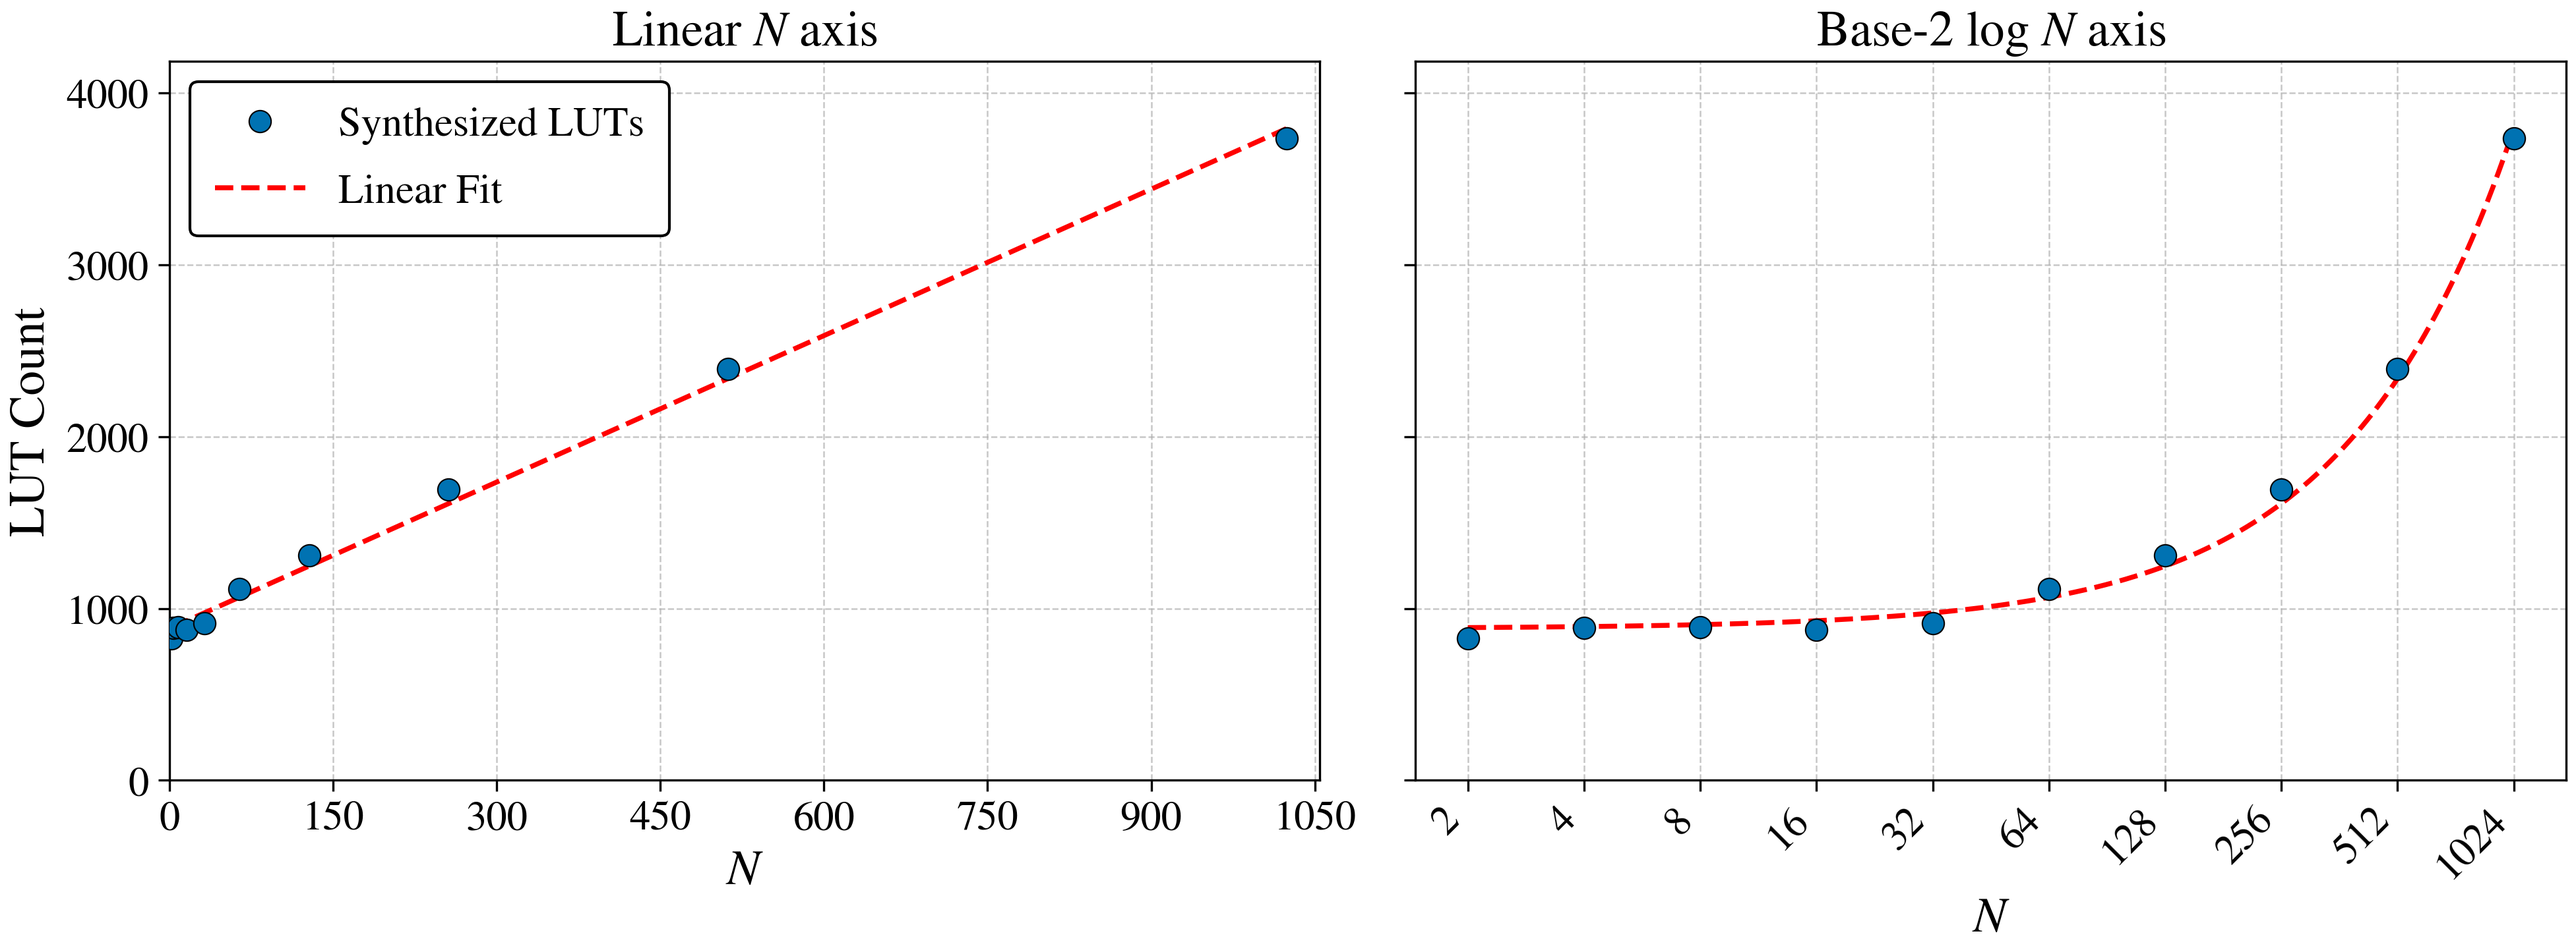
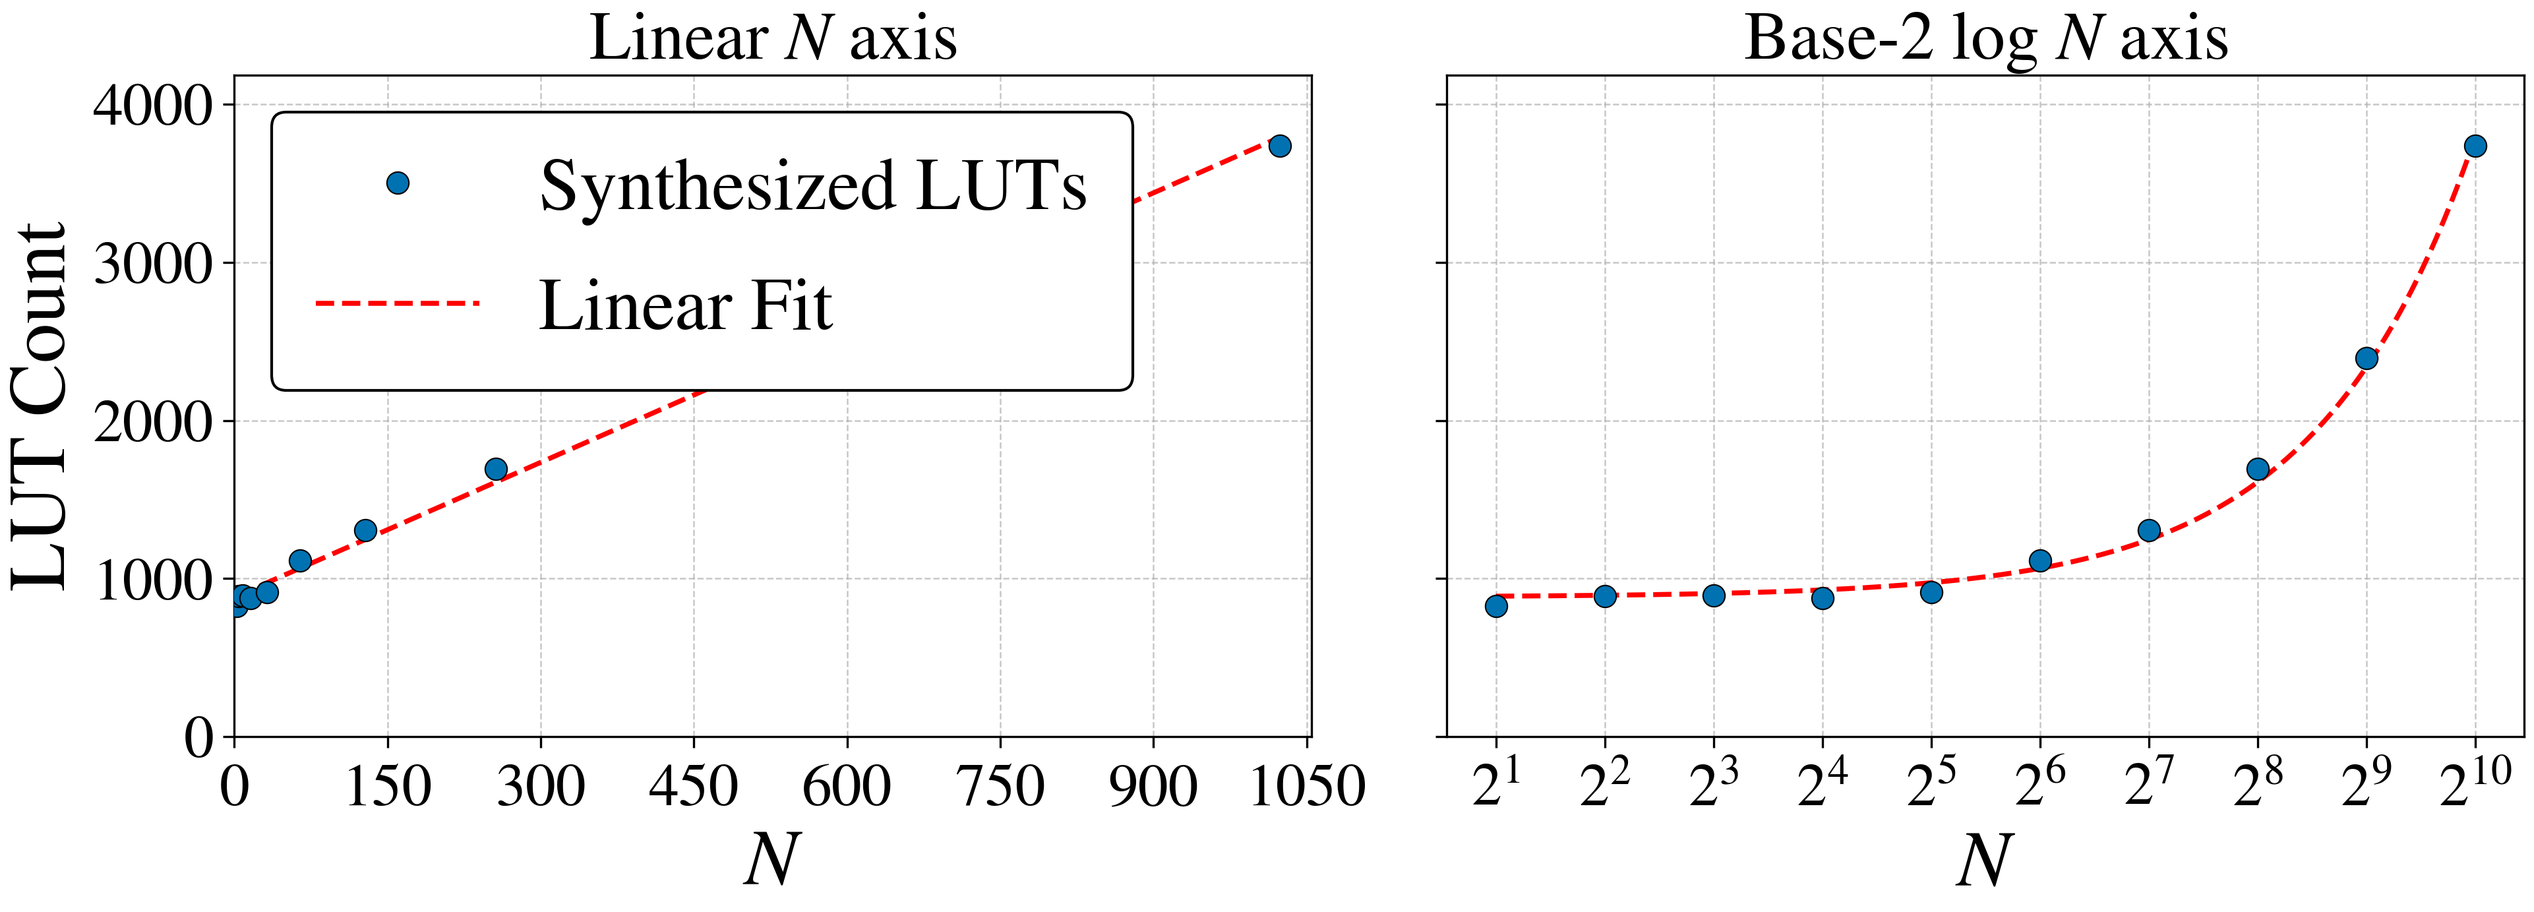
m

diff --git a/evaluation/softmax/SIMD_sweep/scripts/plot_resources.py b/evaluation/softmax/SIMD_sweep/scripts/plot_resources.py
@@ -122,6 +122,13 @@ LABEL_LUT_FIT = "LUT linear fit"
 LABEL_DSP_DATA = "Synthesized DSPs"
 LABEL_DSP_FIT = "DSP linear fit"
 
+# Extra padding (points) between the base-2 log x-axis tick *labels* and the tick
+# marks. The SIMD ticks are rendered as ``2^k`` powers, whose raised exponent
+# would otherwise crowd the axis; the default x tick pad is ~3.5 pt, so this
+# widens the gap enough that the superscripts clear the tick lines. Applied to
+# the log panels only (the linear panel's ticks are unchanged).
+LOG_XTICK_PAD = 8.0
+
 
 def load_resources_csv(
     path: Path,
@@ -166,6 +173,22 @@ def affine_fit(x: np.ndarray, y: np.ndarray) -> tuple[float, float, float]:
     return float(m), float(intercept), r_squared
 
 
+def power_of_two_label(value: float) -> str:
+    """Format a power-of-two SIMD ``value`` as a ``$2^{k}$`` mathtext label.
+
+    The SIMD sweep samples exact powers of two (1, 2, 4, ...), so the base-2 log
+    x-axis is labelled with the exponent (``2^0, 2^1, ...``) rather than the raw
+    value. ``k`` is recovered as ``round(log2(value))``, which is robust to any
+    floating-point noise in the stored SIMD column. If ``value`` is not an exact
+    power of two (``2**k != value``) the exponent would be misleading, so the
+    plain integer is returned instead as a safe fallback.
+    """
+    k = int(round(np.log2(value)))
+    if 2 ** k == int(round(value)):
+        return rf"$2^{{{k}}}$"
+    return str(int(round(value)))
+
+
 def configure_style() -> None:
     """Apply the shared publication rcParams style (see the sibling figures).
 
@@ -181,10 +204,10 @@ def configure_style() -> None:
             "axes.unicode_minus": True,
             "font.size": 16,
             "axes.titlesize": 18,
-            "axes.labelsize": 18,
-            "xtick.labelsize": 15,
-            "ytick.labelsize": 15,
-            "legend.fontsize": 15,
+            "axes.labelsize": 20,
+            "xtick.labelsize": 17,
+            "ytick.labelsize": 17,
+            "legend.fontsize": 17,
             "axes.linewidth": 0.8,
             "axes.edgecolor": "black",
             "xtick.direction": "out",
@@ -303,7 +326,9 @@ def draw_dual_axis(
     else:
         ax_lut.tick_params(axis="y", labelleft=False)
     if show_dsp_labels:
-        ax_dsp.set_ylabel(r"DSP count")
+        # labelpad nudges "DSP count" a touch further from its (right-side) tick
+        # labels; the default ~4 pt would sit a little close to the 3-digit ticks.
+        ax_dsp.set_ylabel(r"DSP count", labelpad=8.0)
     else:
         ax_dsp.tick_params(axis="y", labelright=False)
 
@@ -319,11 +344,15 @@ def draw_dual_axis(
     # --- X-axis ---------------------------------------------------------------
     if log_x:
         # Base-2 log x-axis (SIMD is a power of two): one major tick per sampled
-        # SIMD, labelled with its integer value, base-2 minor ticks suppressed.
+        # SIMD, labelled as the corresponding power of two (2^0, 2^1, ...) via
+        # STIX mathtext, base-2 minor ticks suppressed. The tick labels sit a
+        # touch further from the axis (LOG_XTICK_PAD) so the raised exponents
+        # clear the tick marks without overlap.
         ax_lut.set_xscale("log", base=2)
         ax_lut.set_xticks(simd)
-        ax_lut.set_xticklabels([str(int(s)) for s in simd])
+        ax_lut.set_xticklabels([power_of_two_label(s) for s in simd])
         ax_lut.xaxis.set_minor_locator(NullLocator())
+        ax_lut.tick_params(axis="x", which="major", pad=LOG_XTICK_PAD)
     else:
         # Linear x-axis: evenly-spaced integer ticks chosen by matplotlib. The
         # measured points stay visible as markers, so regular ticks read cleaner

diff --git a/evaluation/softmax/N_sweep/scripts/plot_accuracy.py b/evaluation/softmax/N_sweep/scripts/plot_accuracy.py
@@ -25,7 +25,7 @@ Design notes
   across the sweep (well under one decade), so a *linear* y-axis shows those
   variations at their true relative size rather than compressing them the way a
   log y-axis would. The x-axis uses base 2 (``N`` is a power of two) with the
-  actual N values as tick labels.
+  sampled N values, labelled as ``2^k``, as tick labels.
 * Because the y-axis is linear and the series is not a clean power law, the raw
   measurements are drawn as bare markers (no connecting line and no fitted
   curve): the figure shows the sweep exactly as sampled. RMSRE is rescaled by a
@@ -81,6 +81,20 @@ SERIES = (
 )
 
 
+def pow2_label(n: int) -> str:
+    """Format a sampled ``N`` as a base-2 power label for the log x-axis.
+
+    Every sampled ``N`` is a power of two, so it is shown as ``2^k`` (rendered
+    via mathtext, e.g. ``2^{10}`` for 1024) rather than the raw integer, matching
+    the base-2 log axis. Falls back to the plain integer for the (unexpected)
+    case of an ``N`` that is not an exact power of two.
+    """
+    exp = n.bit_length() - 1
+    if n > 0 and (1 << exp) == n:  # exact power of two
+        return rf"$2^{{{exp}}}$"
+    return str(n)
+
+
 def load_accuracy_csv(path: Path) -> tuple[list[int], list[float]]:
     """Load the ``(N, RMSRE)`` columns from an accuracy CSV.
 
@@ -118,12 +132,12 @@ def configure_style() -> None:
             "mathtext.fontset": "stix",
             "axes.unicode_minus": True,
             # Typographic sizes tuned for a ~half-to-full text-width figure.
-            "font.size": 16,
-            "axes.titlesize": 18,
-            "axes.labelsize": 18,
-            "xtick.labelsize": 15,
-            "ytick.labelsize": 15,
-            "legend.fontsize": 16,
+            "font.size": 23,
+            "axes.titlesize": 25,
+            "axes.labelsize": 29,
+            "xtick.labelsize": 22,
+            "ytick.labelsize": 22,
+            "legend.fontsize": 27,
             # Full black frame (all four spines) with outward ticks.
             "axes.linewidth": 0.8,
             "axes.edgecolor": "black",
@@ -133,6 +147,9 @@ def configure_style() -> None:
             "ytick.major.width": 0.8,
             "xtick.major.size": 4.0,
             "ytick.major.size": 4.0,
+            # Extra padding below the x tick labels so the horizontal 2^k labels
+            # sit clear of the axis line/grid above them (default ~3.5pt).
+            "xtick.major.pad": 6.0,
             # Dashed grid, matching the pareto/coeff figures' style.
             "axes.grid": True,
             "grid.linestyle": "--",
@@ -188,10 +205,12 @@ def plot_one(
     # Factor next to the metric, as in rec/lookup's accuracy_newton_coeff figure.
     ax.set_ylabel(rf"RMSRE  $(\times\,{y_unit_label})$")
 
-    # Show every sampled N as a major tick, labelled with its integer value, and
-    # suppress the base-2 minor ticks so the axis stays uncluttered.
+    # Show every sampled N as a major tick, labelled as a power of two (2^k) to
+    # match the base-2 log axis, and suppress the base-2 minor ticks so the axis
+    # stays uncluttered. Labels sit horizontally (the 2^k form is compact enough
+    # not to need slanting).
     ax.set_xticks(n_vals)
-    ax.set_xticklabels([str(n) for n in n_vals], rotation=45, ha="right")
+    ax.set_xticklabels([pow2_label(n) for n in n_vals])
     ax.xaxis.set_minor_locator(NullLocator())
 
     # Linear y-axis: start at 0 so the RMSRE magnitude is read honestly against a

diff --git a/evaluation/softmax/N_sweep/scripts/plot_resources.py b/evaluation/softmax/N_sweep/scripts/plot_resources.py
@@ -144,12 +144,12 @@ def configure_style() -> None:
             "font.serif": ["STIXGeneral", "DejaVu Serif"],
             "mathtext.fontset": "stix",
             "axes.unicode_minus": True,
-            "font.size": 16,
-            "axes.titlesize": 18,
-            "axes.labelsize": 18,
-            "xtick.labelsize": 15,
-            "ytick.labelsize": 15,
-            "legend.fontsize": 15,
+            "font.size": 23,
+            "axes.titlesize": 25,
+            "axes.labelsize": 29,
+            "xtick.labelsize": 22,
+            "ytick.labelsize": 22,
+            "legend.fontsize": 27,
             "axes.linewidth": 0.8,
             "axes.edgecolor": "black",
             "xtick.direction": "out",
@@ -158,6 +158,9 @@ def configure_style() -> None:
             "ytick.major.width": 0.8,
             "xtick.major.size": 4.0,
             "ytick.major.size": 4.0,
+            # Extra padding below the x tick labels so the horizontal 2^k labels
+            # sit clear of the axis line/grid above them (default ~3.5pt).
+            "xtick.major.pad": 6.0,
             "axes.grid": True,
             "grid.linestyle": "--",
             "grid.linewidth": 0.6,
@@ -171,6 +174,21 @@ def configure_style() -> None:
             "savefig.dpi": 300,
         }
     )
+
+
+def pow2_label(n: float) -> str:
+    """Format a sampled ``N`` as a base-2 power label for the log x-axis.
+
+    Every sampled ``N`` is a power of two, so on the base-2 log axis it is shown
+    as ``2^k`` (rendered via mathtext, e.g. ``2^{10}`` for 1024) rather than the
+    raw integer. Falls back to the plain integer for the (unexpected) case of an
+    ``N`` that is not an exact power of two.
+    """
+    value = int(round(n))
+    exp = value.bit_length() - 1
+    if value > 0 and (1 << exp) == value:  # exact power of two
+        return rf"$2^{{{exp}}}$"
+    return str(value)
 
 
 def draw_lut_axis(
@@ -231,10 +249,12 @@ def draw_lut_axis(
 
     if log_x:
         # Base-2 log x-axis (N is a power of two): one major tick per sampled N,
-        # labelled with its integer value, base-2 minor ticks suppressed.
+        # labelled as a power of two (2^k) to match the base-2 axis, base-2 minor
+        # ticks suppressed. Labels sit horizontally (the 2^k form is compact
+        # enough not to need slanting).
         ax.set_xscale("log", base=2)
         ax.set_xticks(n_vals)
-        ax.set_xticklabels([str(int(n)) for n in n_vals], rotation=45, ha="right")
+        ax.set_xticklabels([pow2_label(n) for n in n_vals])
         ax.xaxis.set_minor_locator(NullLocator())
     else:
         # Linear x-axis: use evenly-spaced round ticks chosen by matplotlib.
